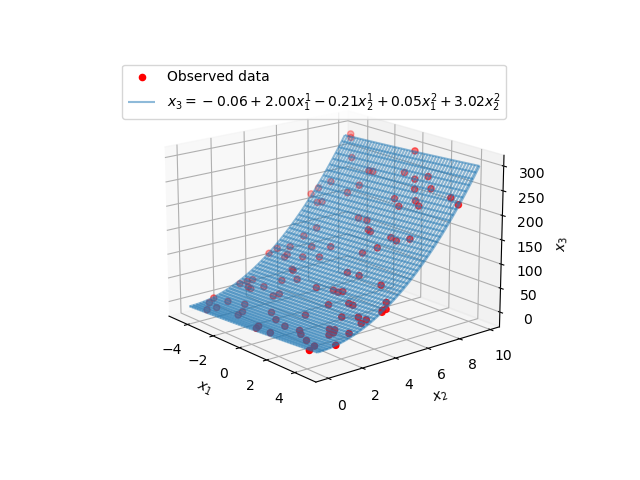
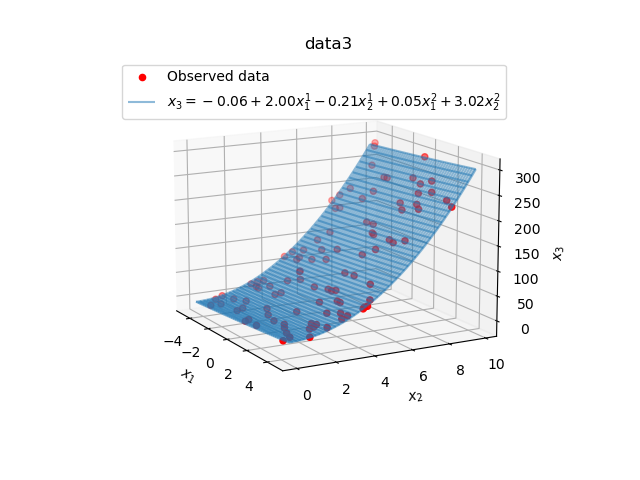
タイトルを追加

diff --git a/ex3/y_sato/ex3.py b/ex3/y_sato/ex3.py
@@ -91,7 +91,7 @@ def regression2d(data, title, deg):
     x1 = np.linspace(x.min(), x.max())
     predict = model.predict2d(x1)
     ax.plot(x1, predict, label=model.label(), color="red")
-    ax.set(xlabel="$x_1$", ylabel="$x_2$")
+    ax.set(xlabel="$x_1$", ylabel="$x_2$", title=title)
     ax.grid()
     ax.legend()
     plt.show()
@@ -116,9 +116,7 @@ def regression3d(data, title, deg):
     X, Y = np.meshgrid(np.arange(x[:, 0].min(), x[:, 0].max(), 0.1), np.arange(x[:, 1].min(), x[:, 1].max(), 0.1))
     Z = model.predict3d(X, Y)
     ax.plot_wireframe(X, Y, Z, label=model.label(), alpha=0.5)
-    ax.set_xlabel("$x_1$")
-    ax.set_ylabel("$x_2$")
-    ax.set_zlabel("$x_3$")
+    ax.set(xlabel="$x_1$", ylabel="$x_2$", zlabel="$x_3$", title=title)
     ax.legend()
     plt.show()
     plt.close()
